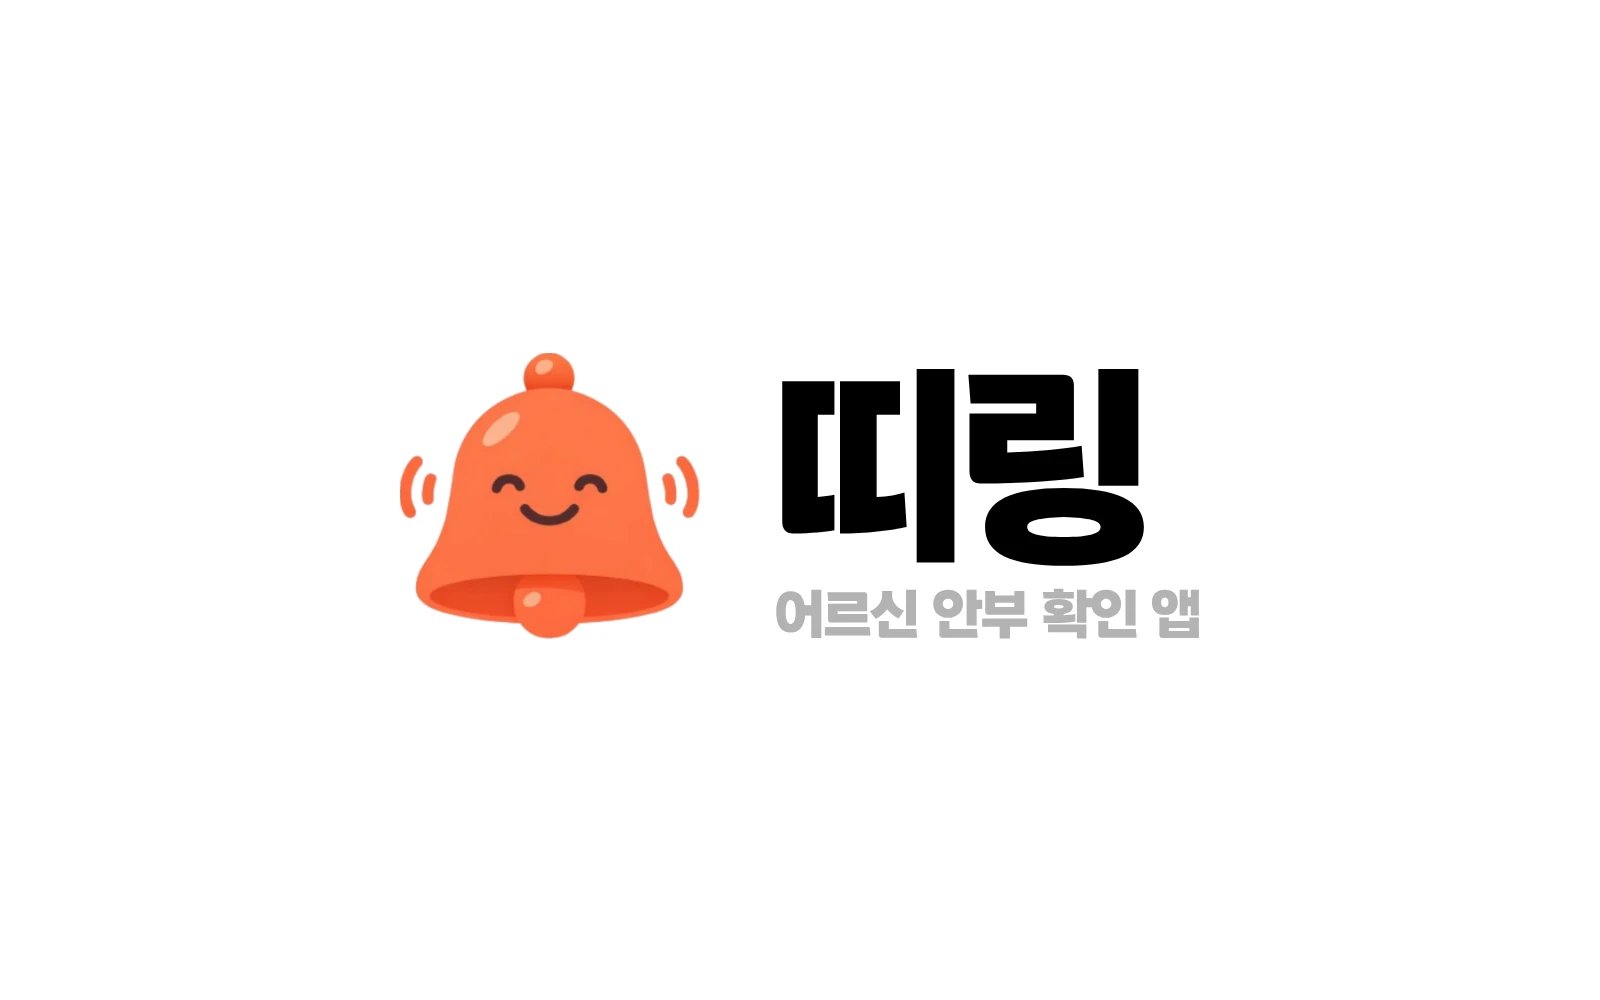
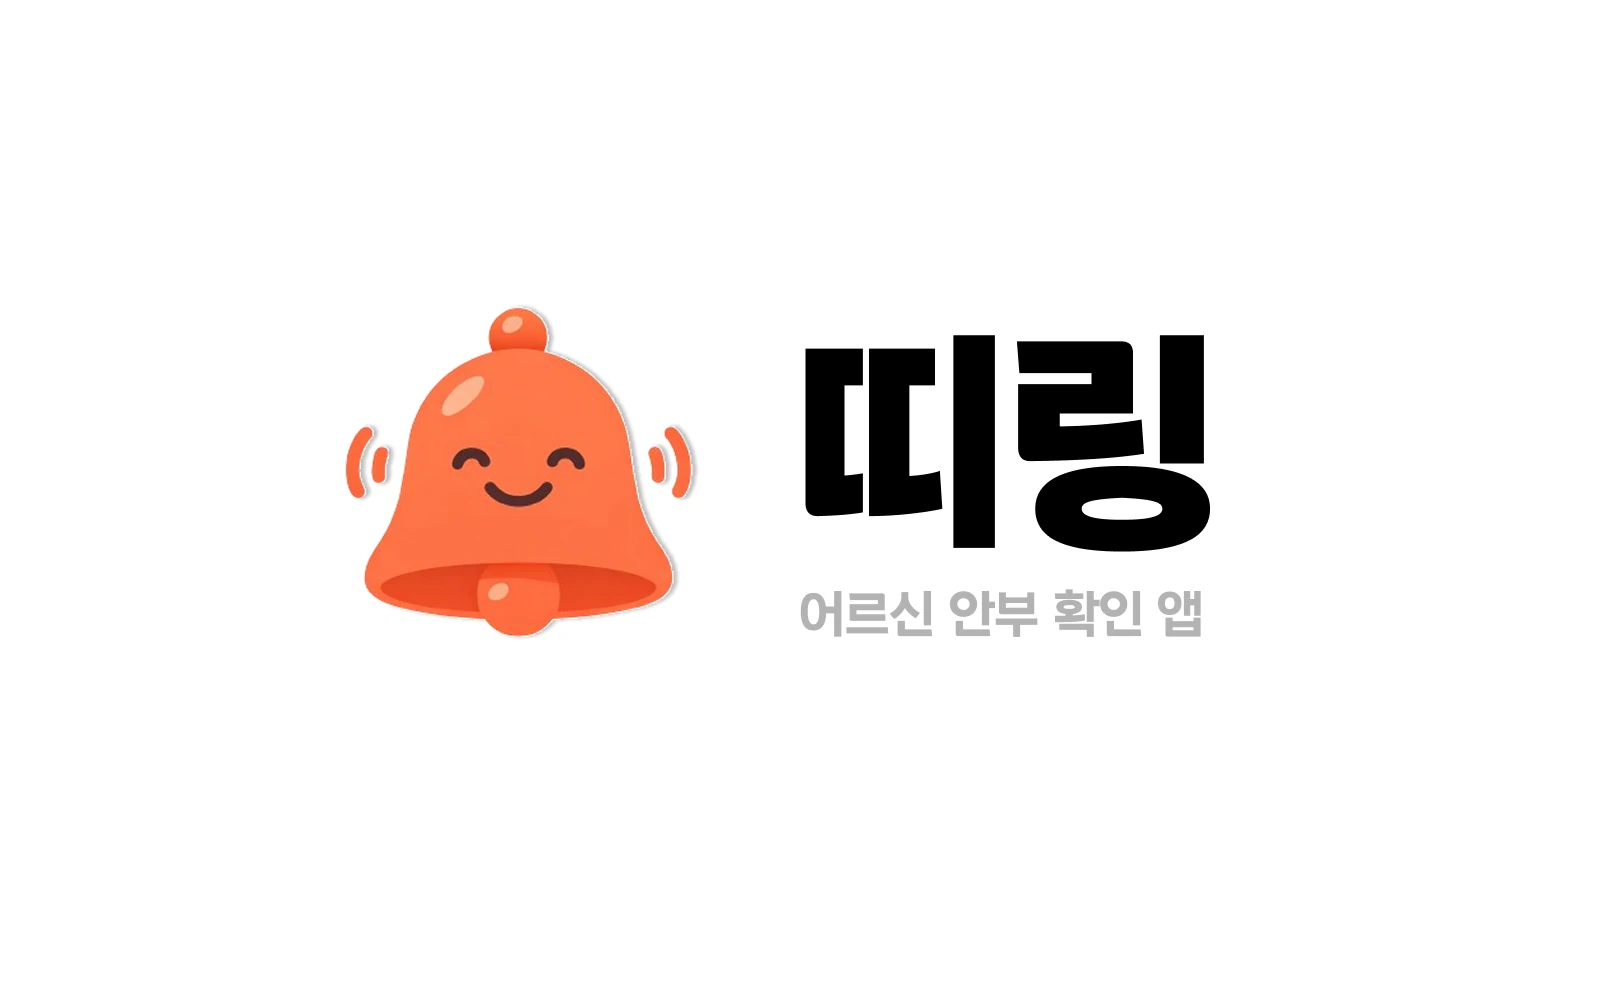
Project cards: use the user's 1600x1000 card images for both projects
DRAW&YOU gets a card thumbnail (logo); 띠링's card image is replaced
with the user's export. Detail pages keep their service screenshots.

Claude-Session: https://claude.ai/code/session_01JqrYvV97vQKTAC9fmj9VHh

Changed region(s): [[0.4688, 0.31, 0.7812, 0.651], [0.2188, 0.31, 0.4375, 0.651]]

diff --git a/src/content/site.ts b/src/content/site.ts
@@ -74,6 +74,13 @@ export const projects: Project[] = [
         'React 상태 흐름과 Konva 렌더링 구조를 단계별로 나눠 원인을 분석하고, 재렌더링 범위·레이어 분리·메모이제이션 위치를 점검했습니다.',
       result: '캔버스 반응 속도를 개선하고, React DevTools와 Performance 탭으로 변화를 확인했습니다.',
     },
+    thumbnail: {
+      src: '/images/drawandyou/card-1600.webp',
+      srcSet: '/images/drawandyou/card-800.webp 800w, /images/drawandyou/card-1600.webp 1600w',
+      width: 1600,
+      height: 1000,
+      alt: 'DRAW&YOU 로고. 파란 꽃잎 모양 심볼과 “DRAW and YOU” 글자.',
+    },
     hero: {
       src: '/images/drawandyou/canvas-1600.webp',
       srcSet: '/images/drawandyou/canvas-800.webp 800w, /images/drawandyou/canvas-1600.webp 1600w',
